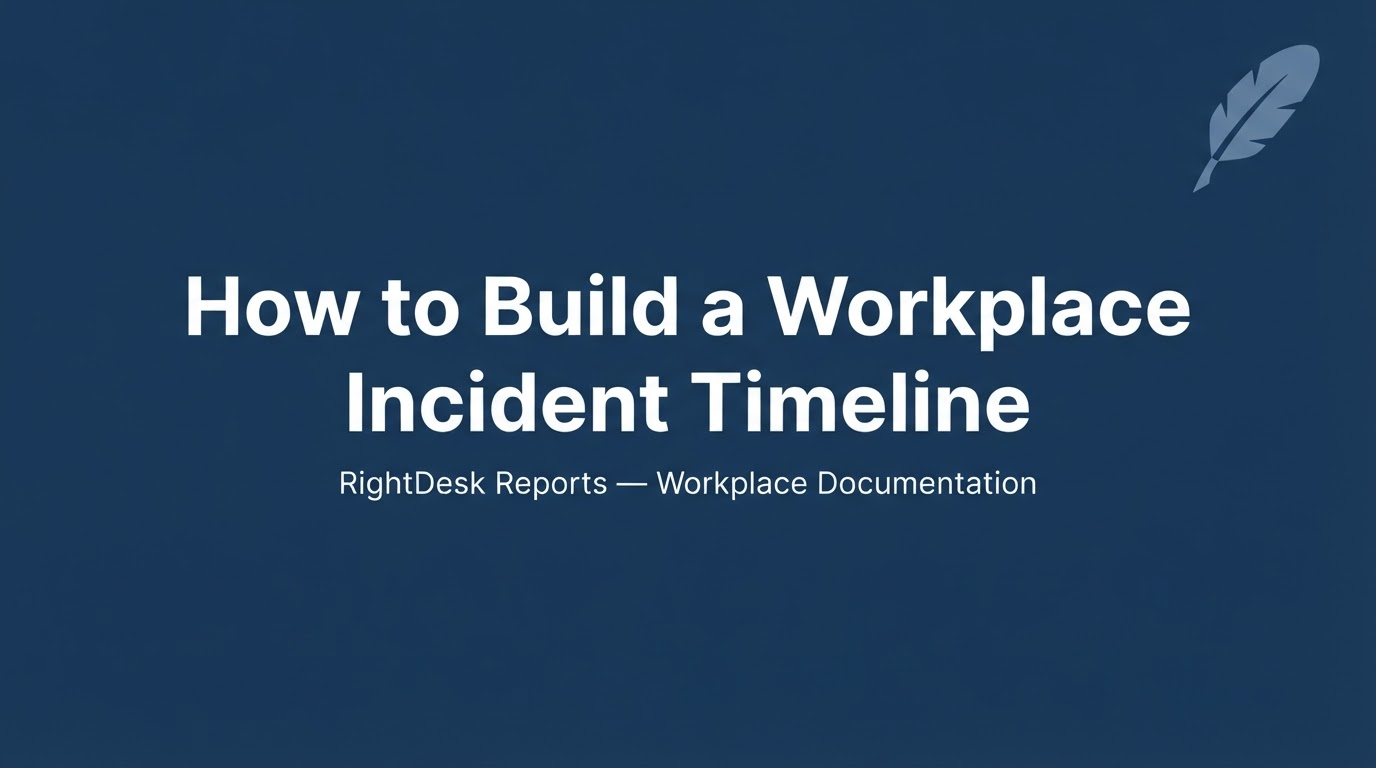
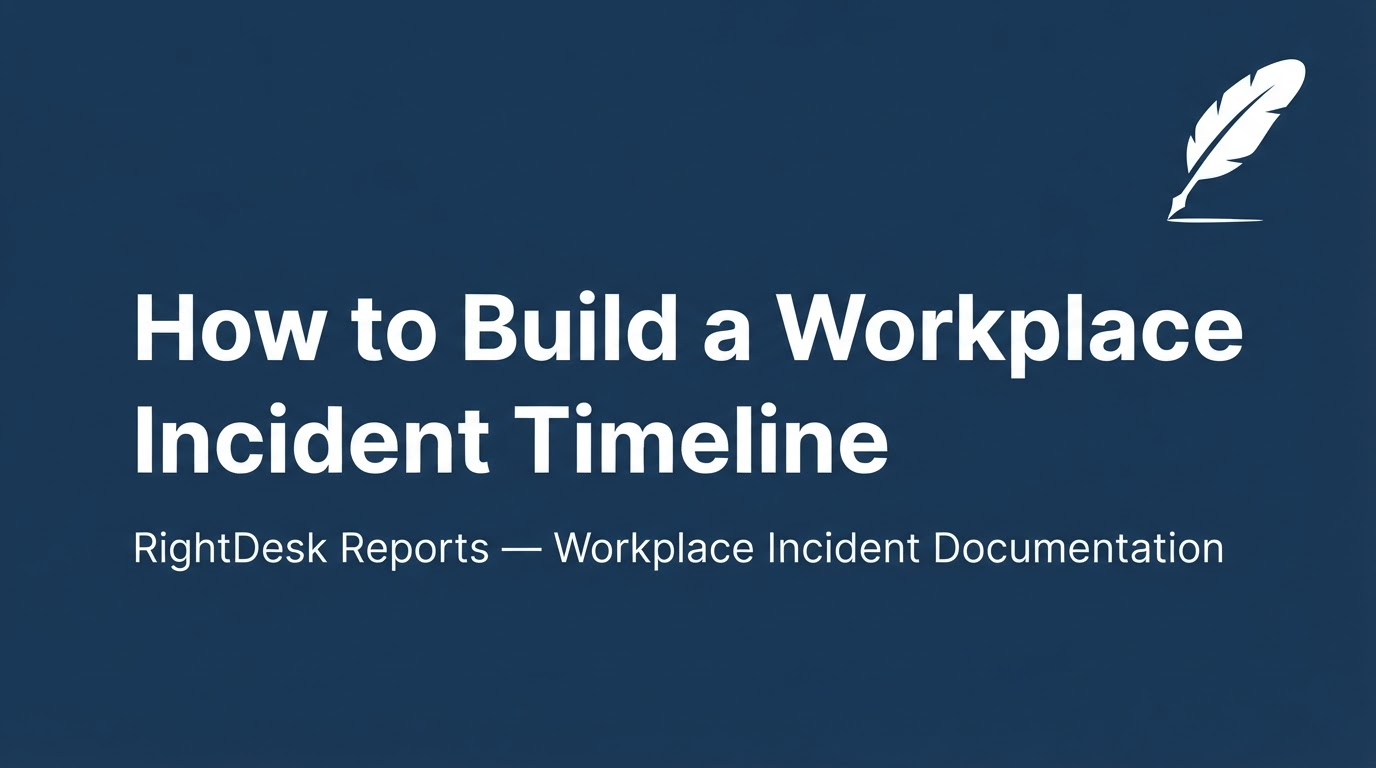
Remove AI wording from marketing site + update OG images (no AI tagline)
- index.html: 11 edits removing 'AI-powered' from meta, hero, stat bubble,
  card, step 3, pricing tiers (free/essential/premium), signup note,
  og:description and twitter:description
- for-attorneys/index.html: 2 edits — hero paragraph and benefit card
- All 16 OG social images regenerated with corrected tagline
  'Workplace Incident Documentation' (removed 'AI-powered' from tagline)
- og-image.png (homepage/attorneys) also replaced

Changed region(s): [[0.0938, 0.3438, 0.9062, 0.6562], [0.0938, 0.6875, 0.9062, 0.75], [0.8438, 0.0625, 0.9688, 0.3125]]

diff --git a/index.html b/index.html
@@ -6,20 +6,20 @@
 
   <!-- SEO -->
   <title>RightDesk Reports — Document Workplace Incidents. Protect Your Rights.</title>
-  <meta name="description" content="RightDesk Reports helps employees document workplace incidents, retaliation, harassment, and HR concerns. Generate AI-powered professional reports on your phone." />
+  <meta name="description" content="RightDesk Reports helps employees document workplace incidents, retaliation, harassment, and HR concerns. Generate professional reports on your phone." />
   <link rel="canonical" href="https://www.rightdeskreports.com/" />
 
   <!-- Open Graph -->
   <meta property="og:type"        content="website" />
   <meta property="og:url"         content="https://www.rightdeskreports.com/" />
   <meta property="og:title"       content="RightDesk Reports — Employees First. Always." />
-  <meta property="og:description" content="Document workplace incidents, generate professional AI-powered reports, and protect your rights — all from your phone." />
+  <meta property="og:description" content="Document workplace incidents, generate professional reports, and protect your rights — all from your phone." />
   <meta property="og:image"       content="https://www.rightdeskreports.com/assets/images/og-image.png" />
 
   <!-- Twitter Card -->
   <meta name="twitter:card"        content="summary_large_image" />
   <meta name="twitter:title"       content="RightDesk Reports — Employees First. Always." />
-  <meta name="twitter:description" content="Document workplace incidents, generate professional AI-powered reports, and protect your rights — all from your phone." />
+  <meta name="twitter:description" content="Document workplace incidents, generate professional reports, and protect your rights — all from your phone." />
   <meta name="twitter:image"       content="https://www.rightdeskreports.com/assets/images/og-image.png" />
 
   <!-- Fonts -->
@@ -69,7 +69,7 @@
     </div>
     <h1>Your Voice Deserves<br/>to Be <em>Heard.</em></h1>
     <p class="hero-sub">
-      Document workplace incidents, generate AI-powered professional reports,
+      Document workplace incidents, generate professional reports,
       and protect your rights — all from your phone.
       <strong>Employees First. Always.</strong>
     </p>
@@ -95,8 +95,8 @@
       <span class="stat-label">Don't know how to document it</span>
     </div>
     <div class="stat-item">
-      <span class="stat-number">AI</span>
-      <span class="stat-label">Powered professional reports</span>
+      <span class="stat-number">Pro</span>
+      <span class="stat-label">Reports formatted for HR &amp; legal</span>
     </div>
     <div class="stat-item">
       <span class="stat-number">100%</span>
@@ -121,8 +121,8 @@
         <p class="card-desc">Log incidents with dates, witnesses, severity levels, and supporting details. Voice-to-text makes it fast — even in the moment.</p>
       </div>
       <div class="card">
-        <div class="card-icon">🤖</div>
-        <div class="card-title">AI-Powered Reports</div>
+        <div class="card-icon">📄</div>
+        <div class="card-title">Professional Reports</div>
         <p class="card-desc">Turn your logs into professional narrative reports ready for HR, legal teams, or employment lawyers — instantly.</p>
       </div>
       <div class="card">
@@ -171,7 +171,7 @@
       <div class="step">
         <div class="step-number">3</div>
         <div class="step-title">Generate Your Report</div>
-        <p class="step-desc">Choose your report type — HR, harassment, discrimination, retaliation, and more. AI writes a professional narrative instantly.</p>
+        <p class="step-desc">Choose your report type — HR, harassment, discrimination, retaliation, and more. Your notes are formatted into a professional narrative instantly.</p>
       </div>
       <div class="step">
         <div class="step-number">4</div>
@@ -212,7 +212,7 @@
           <li><span class="check">✓</span> Calendar view</li>
           <li><span class="check">✓</span> Photo evidence</li>
           <li><span class="check">✓</span> Local encrypted storage</li>
-          <li class="dim"><span class="cross">⊖</span> No AI report generation</li>
+          <li class="dim"><span class="cross">⊖</span> No professional report generation</li>
           <li class="dim"><span class="cross">⊖</span> No report downloads</li>
           <li class="dim"><span class="cross">⊖</span> 3 incident limit</li>
         </ul>
@@ -244,7 +244,7 @@
           <li><span class="check">✓</span> Retaliation Timeline</li>
           <li><span class="check">✓</span> Harassment Documentation</li>
           <li><span class="check">✓</span> Discrimination Concern</li>
-          <li><span class="check">✓</span> AI-powered professional language</li>
+          <li><span class="check">✓</span> Professional report formatting</li>
           <li><span class="check">✓</span> Share &amp; export reports</li>
           <li><span class="check">✓</span> <a href="for-attorneys/" style="color:var(--navy-mid);font-weight:600;">Legal resource listings</a> ⚖</li>
           <li class="dim"><span class="cross">⊖</span> Termination Prep (Premium)</li>
@@ -273,7 +273,7 @@
           <li><span class="check">✓</span> Everything in Essential</li>
           <li><span class="check">✓</span> Termination Prep report</li>
           <li><span class="check">✓</span> Attorney-Ready Packet</li>
-          <li><span class="check">✓</span> Priority AI generation</li>
+          <li><span class="check">✓</span> Priority report generation</li>
           <li><span class="check">✓</span> Legal-grade formatting</li>
           <li><span class="check">✓</span> Evidence inventory in reports</li>
           <li><span class="check">✓</span> <a href="for-attorneys/" style="color:var(--navy-mid);font-weight:600;">Legal resource listings</a> ⚖</li>
@@ -385,7 +385,7 @@
       <div style="text-align:center; padding: 40px 32px;">
         <div style="font-size:56px; margin-bottom:16px;">📱</div>
         <div class="form-title" style="margin-bottom:12px;">Available on Android</div>
-        <p class="form-sub" style="margin-bottom:32px;">Free to download. No credit card required to get started. Upgrade in-app when you need unlimited logging and AI-powered reports.</p>
+        <p class="form-sub" style="margin-bottom:32px;">Free to download. No credit card required to get started. Upgrade in-app when you need unlimited logging and professional reports.</p>
 
         <a href="https://play.google.com/store/apps/details?id=com.rightdeskreport.report&pcampaignid=web_share"
            target="_blank" rel="noopener"

diff --git a/for-attorneys/index.html b/for-attorneys/index.html
@@ -51,7 +51,7 @@
     <h1>Your Next Client Already Has<br/>a Professional Report.</h1>
     <p style="margin-top:16px;">
       RightDesk Reports users document workplace incidents before they search for a lawyer.
-      They arrive prepared — with timestamped logs, photo evidence, and AI-generated professional
+      They arrive prepared — with timestamped logs, photo evidence, and professionally formatted
       reports. All they need is you.
     </p>
 
@@ -92,7 +92,7 @@
       <div class="benefit-card">
         <div class="benefit-icon">📄</div>
         <div class="benefit-title">Professional Report in Hand</div>
-        <p class="benefit-desc">Premium users generate AI-powered Attorney-Ready Packets formatted for legal review — before they ever contact you. Your intake starts at a higher baseline.</p>
+        <p class="benefit-desc">Premium users generate Attorney-Ready Packets formatted for legal review — before they ever contact you. Your intake starts at a higher baseline.</p>
       </div>
       <div class="benefit-card">
         <div class="benefit-icon">🎯</div>
